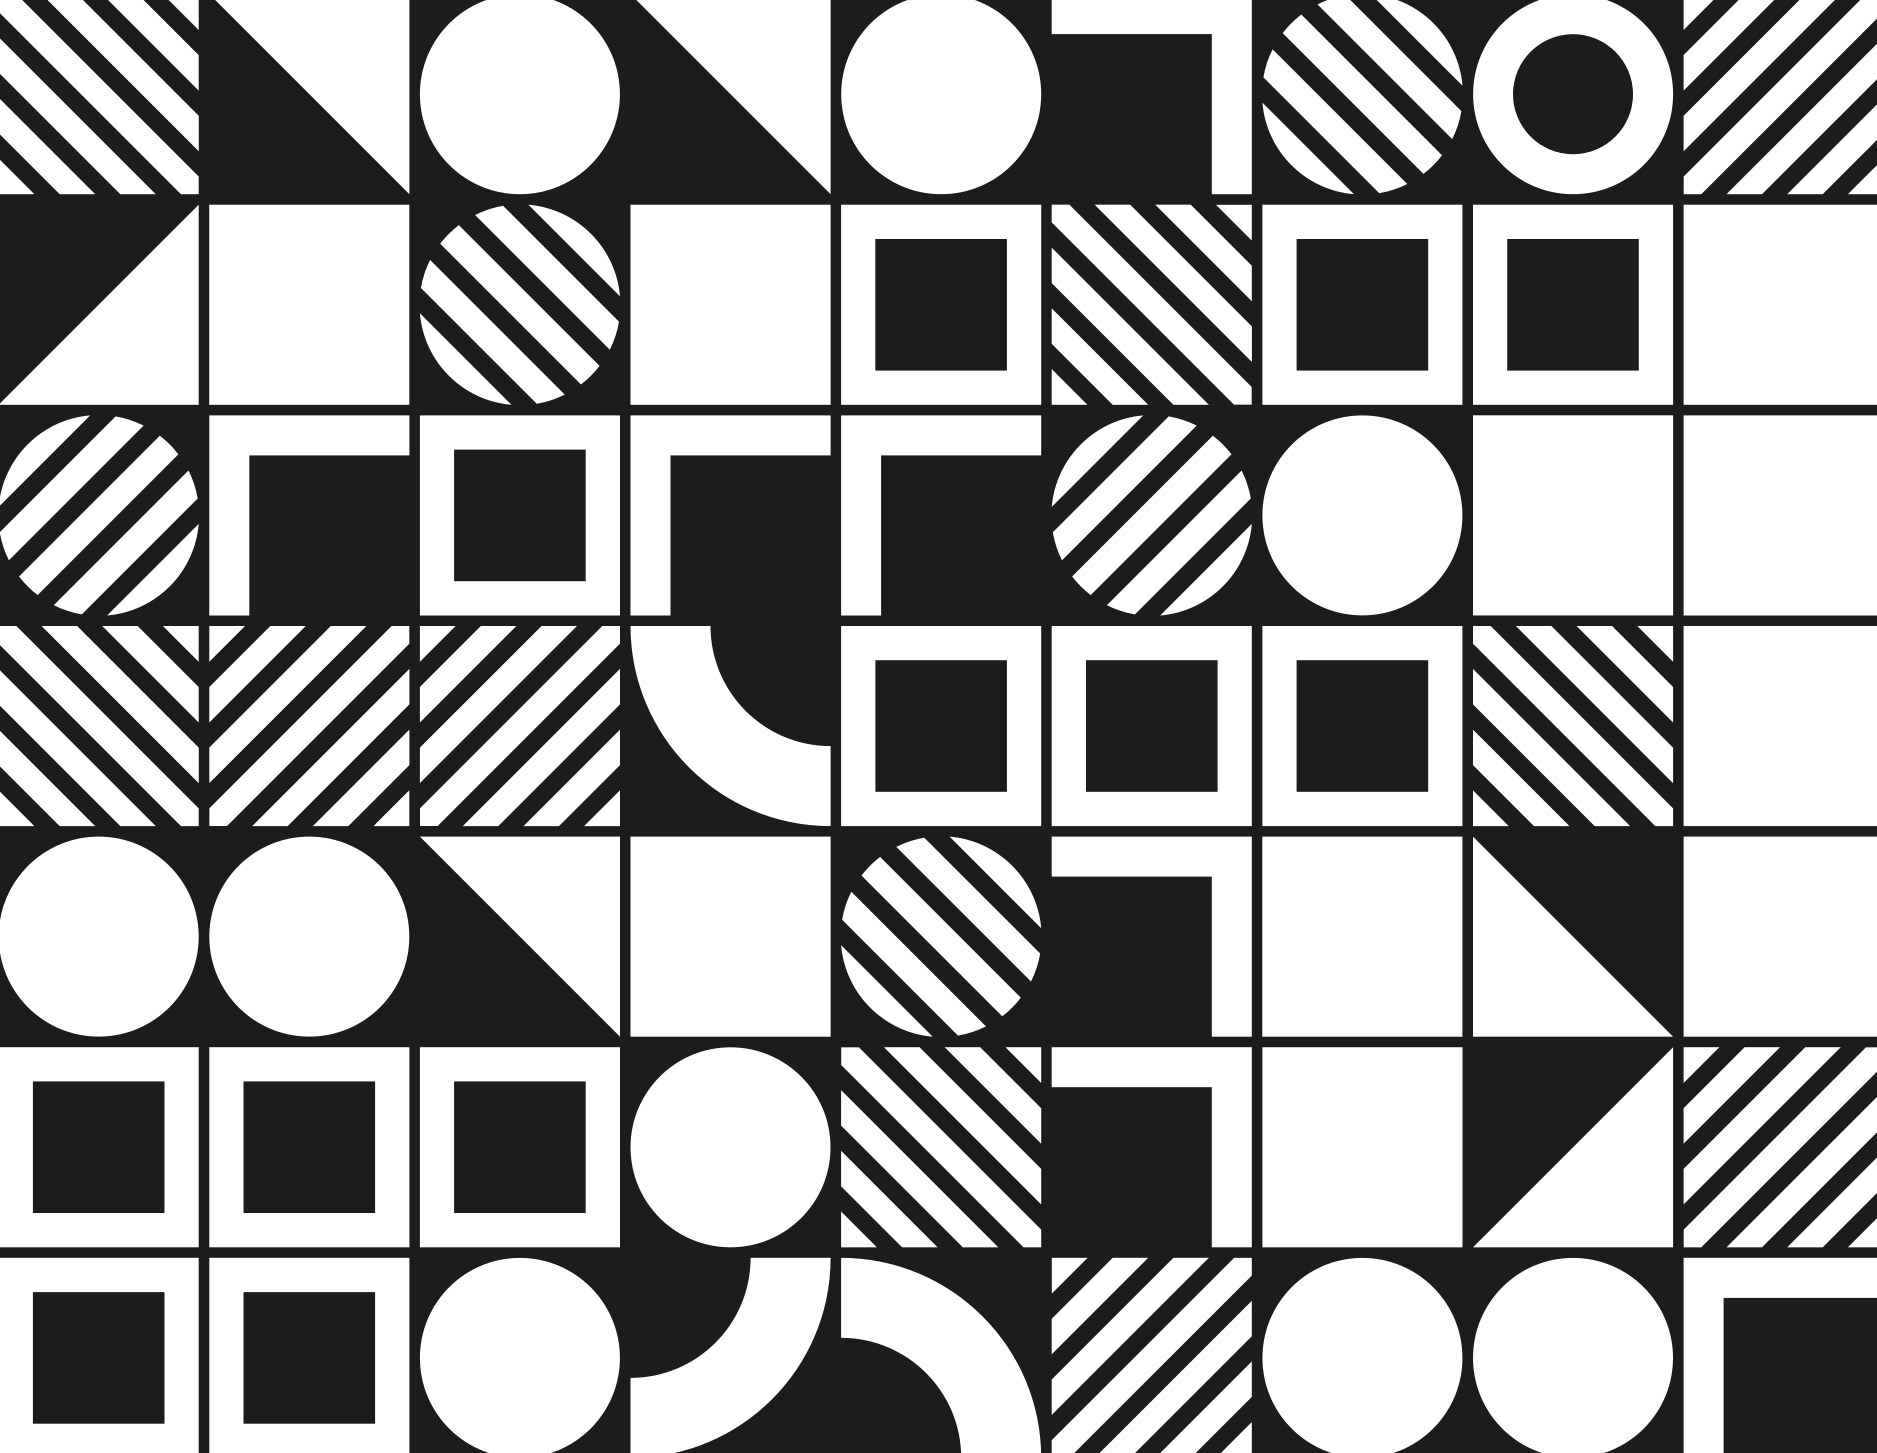
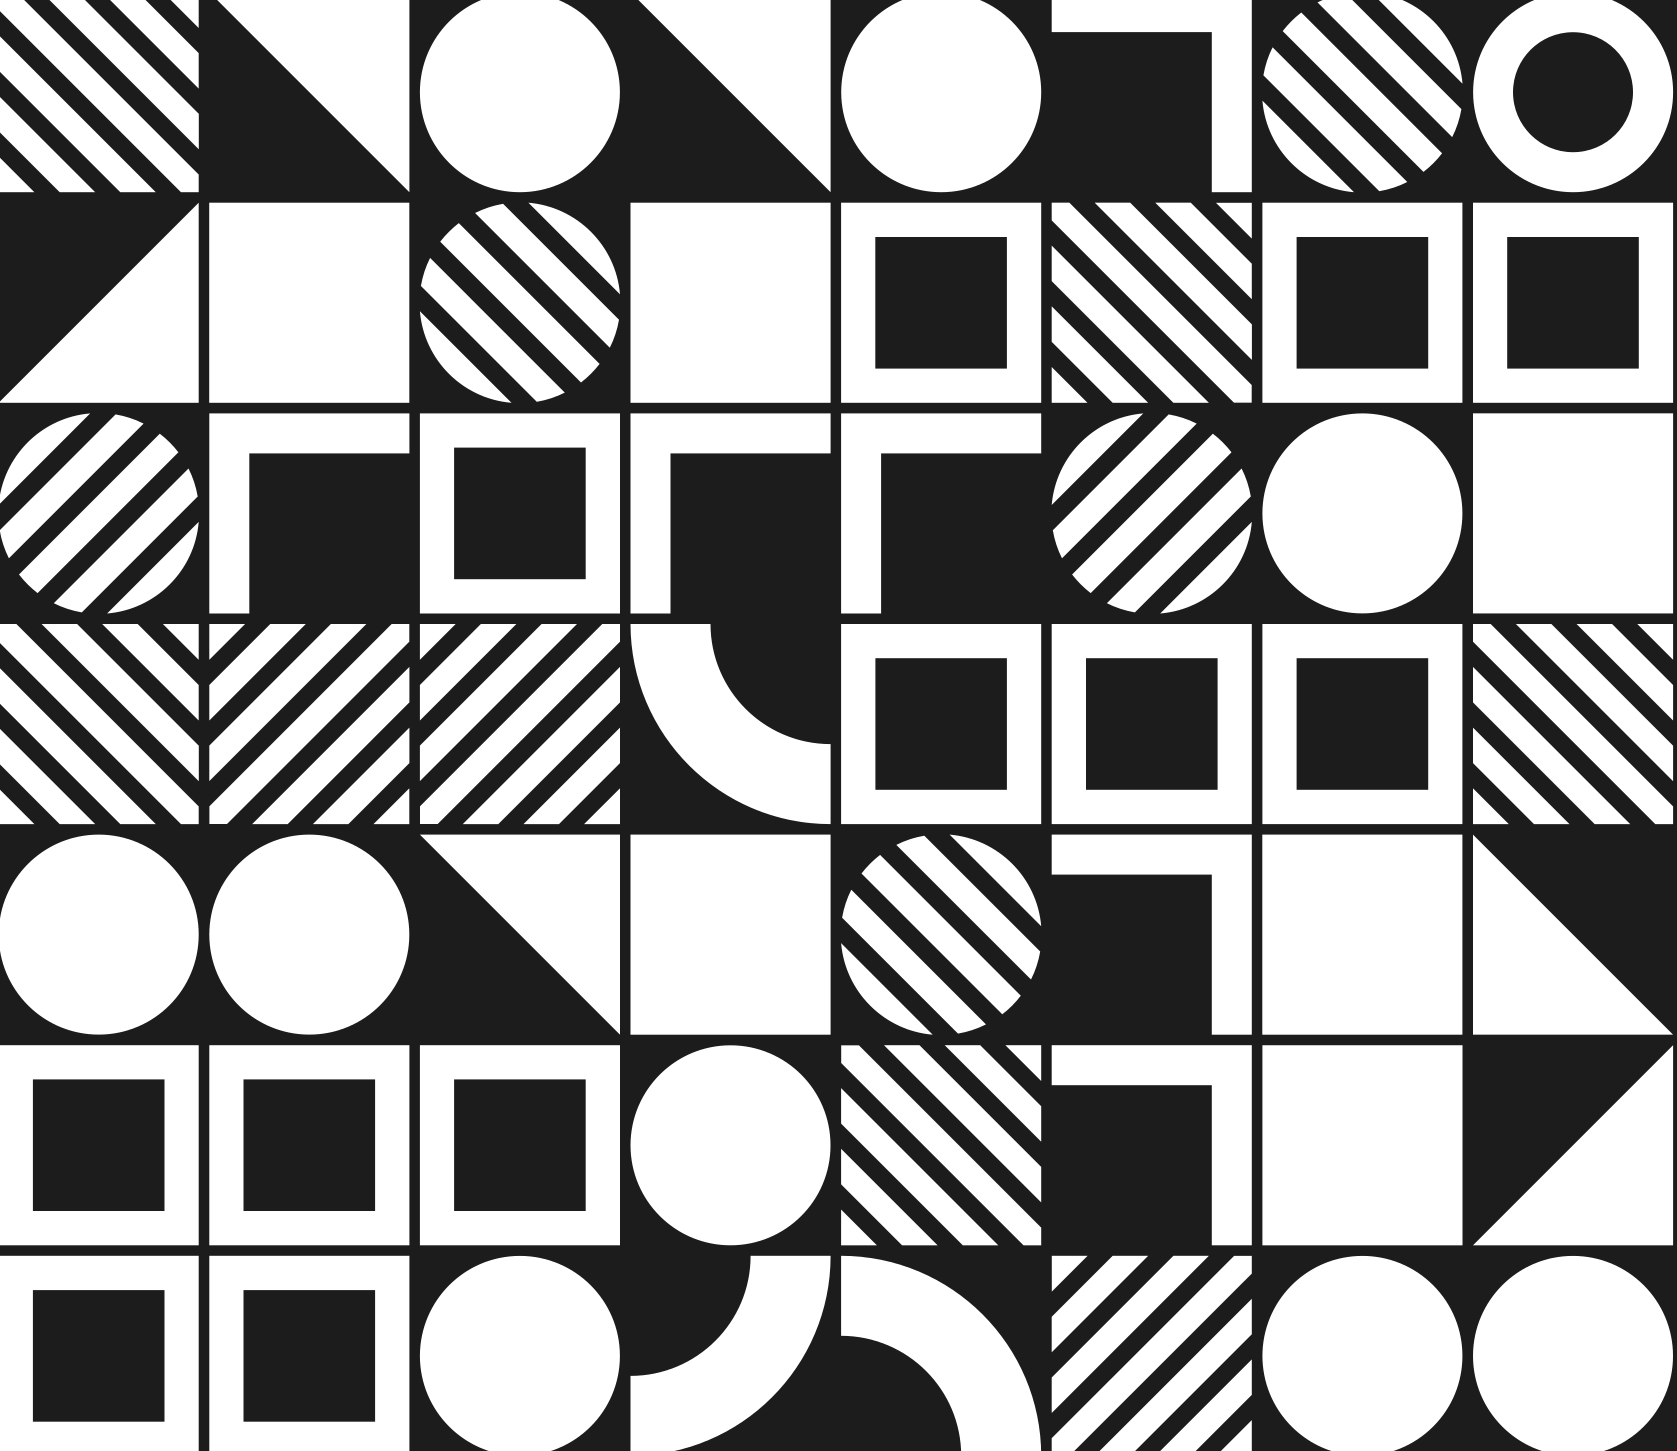
Style background image

diff --git a/styles/_layout.scss b/styles/_layout.scss
@@ -57,14 +57,16 @@ ul {
     main {
         display: flex;
         .left {
-            width: max(50%, 500px);
+            width: max(45%, 500px);
             height: 100%;
+            border-right: 5px solid black
         }
 
         .right {
             @include base.flex;
             height: 100%;
-            width: 50%;
+            width: 55%;
+            position: relative;
         }
     }
 
@@ -81,11 +83,11 @@ ul {
     .right {
         .image-container{
             &.desktop{
-                height: 100%;
-                width: 100%;
+                height: calc(100% - 30px);
+                width: calc(100% - 30px);
                 background-image: url("../Imgs/background-image2.png");
-                background-size: cover;
-                background-repeat: repeat-y;
+                background-size: contain;
+                border: 15px solid white;
             }
         }
     }

diff --git a/styles/index.css b/styles/index.css
@@ -55,8 +55,9 @@ ul li {
     display: flex;
   }
   main .left {
-    width: max(50%, 500px);
+    width: max(45%, 500px);
     height: 100%;
+    border-right: 5px solid black;
   }
   main .right {
     display: flex;
@@ -64,7 +65,8 @@ ul li {
     justify-content: center;
     align-items: center;
     height: 100%;
-    width: 50%;
+    width: 55%;
+    position: relative;
   }
   .left h1 {
     display: block;
@@ -74,11 +76,11 @@ ul li {
     padding-top: 2vh;
   }
   .right .image-container.desktop {
-    height: 100%;
-    width: 100%;
+    height: calc(100% - 30px);
+    width: calc(100% - 30px);
     background-image: url("../Imgs/background-image2.png");
-    background-size: cover;
-    background-repeat: repeat-y;
+    background-size: contain;
+    border: 15px solid white;
   }
   .image-container.mobile {
     background-image: none;
